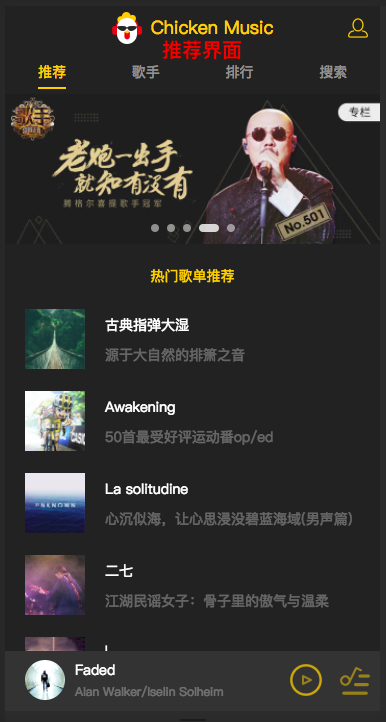
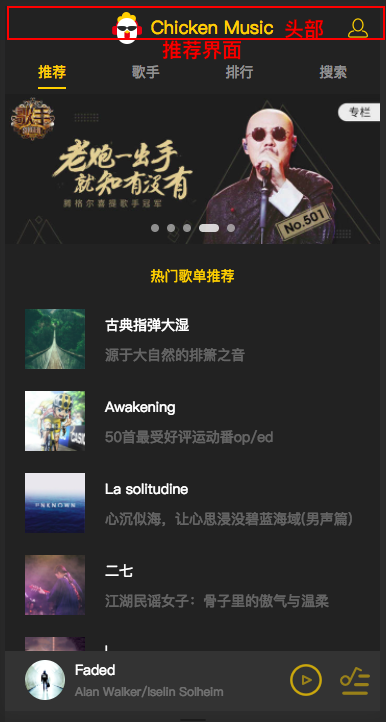
12-1 用户个人中心页: 切换 '我喜欢的' '最近听的'

Changed region(s): [[0.715, 0.0, 0.8394, 0.0609], [0.9637, 0.0, 1.0, 0.0609], [0.0, 0.0, 0.0311, 0.0609]]

diff --git a/src/components/user-center/user-center.vue b/src/components/user-center/user-center.vue
@@ -1,4 +1,5 @@
 <template>
+  <!-- 12 -->
   <transition name="slide">
     <div class="user-center">
       <div class="back" @click="back">
@@ -6,9 +7,9 @@
       </div>
       <div class="switches-wrapper">
         <switches
-          @switch="switchItem"
           :switches="switches"
           :currentIndex="currentIndex"
+          @switch="switchItem"
         >
         </switches>
       </div>
@@ -46,18 +47,19 @@
 </template>
 
 <script type="text/ecmascript-6">
+  import {mapGetters, mapActions} from "vuex"
+  import {playlistMixin} from "common/js/mixin"
   import Switches from "base/switches/switches"
   import Scroll from "base/scroll/scroll"
   import SongList from "base/song-list/song-list"
   import NoResult from "base/no-result/no-result"
   import Song from "common/js/song"
-  import {mapGetters, mapActions} from "vuex"
-  import {playlistMixin} from "common/js/mixin"
 
   export default {
     mixins: [playlistMixin],
     data () {
       return {
+        // 第一个switches选项
         currentIndex: 0,
         switches: [
           {name: "我喜欢的"},
@@ -86,6 +88,7 @@
       ])
     },
     methods: {
+      // 设置mini播放器正确位置
       handlePlaylist (playlist) {
         const bottom = playlist.length > 0 ? "60px" : ""
         this.$refs.listWrapper.style.bottom = bottom

diff --git a/src/components/m-header/m-header.vue b/src/components/m-header/m-header.vue
@@ -1,7 +1,9 @@
 <template>
+  <!-- 01/头部 -->
   <div class="m-header">
     <div class="icon"></div>
     <h1 class="text">Chicken Music</h1>
+    <!-- 路由跳转到用户中心 -->
     <router-link tag="div" class="mine" to="/user">
       <i class="icon-mine"></i>
     </router-link>

diff --git a/README.md b/README.md
@@ -543,7 +543,9 @@ cnpm install good-storage --save
 
 
 ## 12-1
-### 用户个人中心页, switch切换
+### (user-center.vue)
+### 点击❤按钮跳转到用户中心
+### 用户个人中心页: 切换 '我喜欢的' '最近听的'
 
 
 ## 12-2
